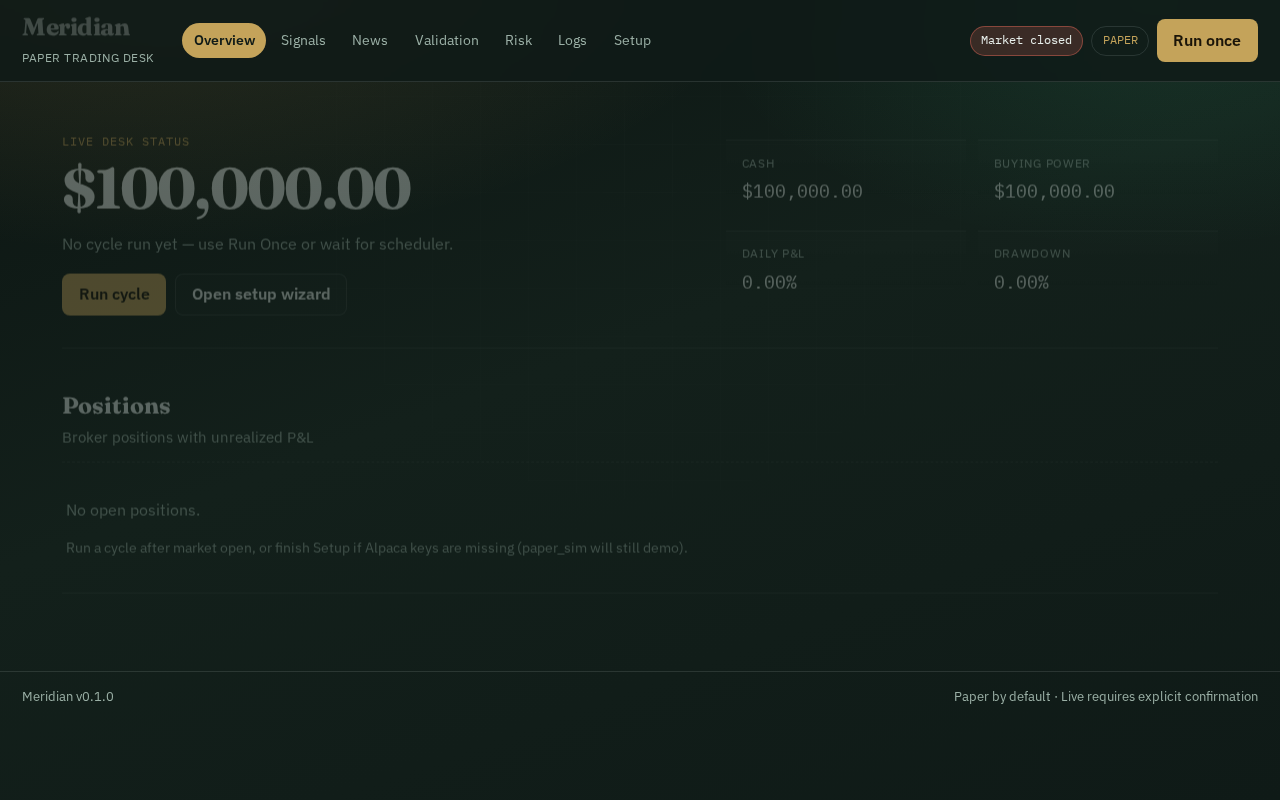
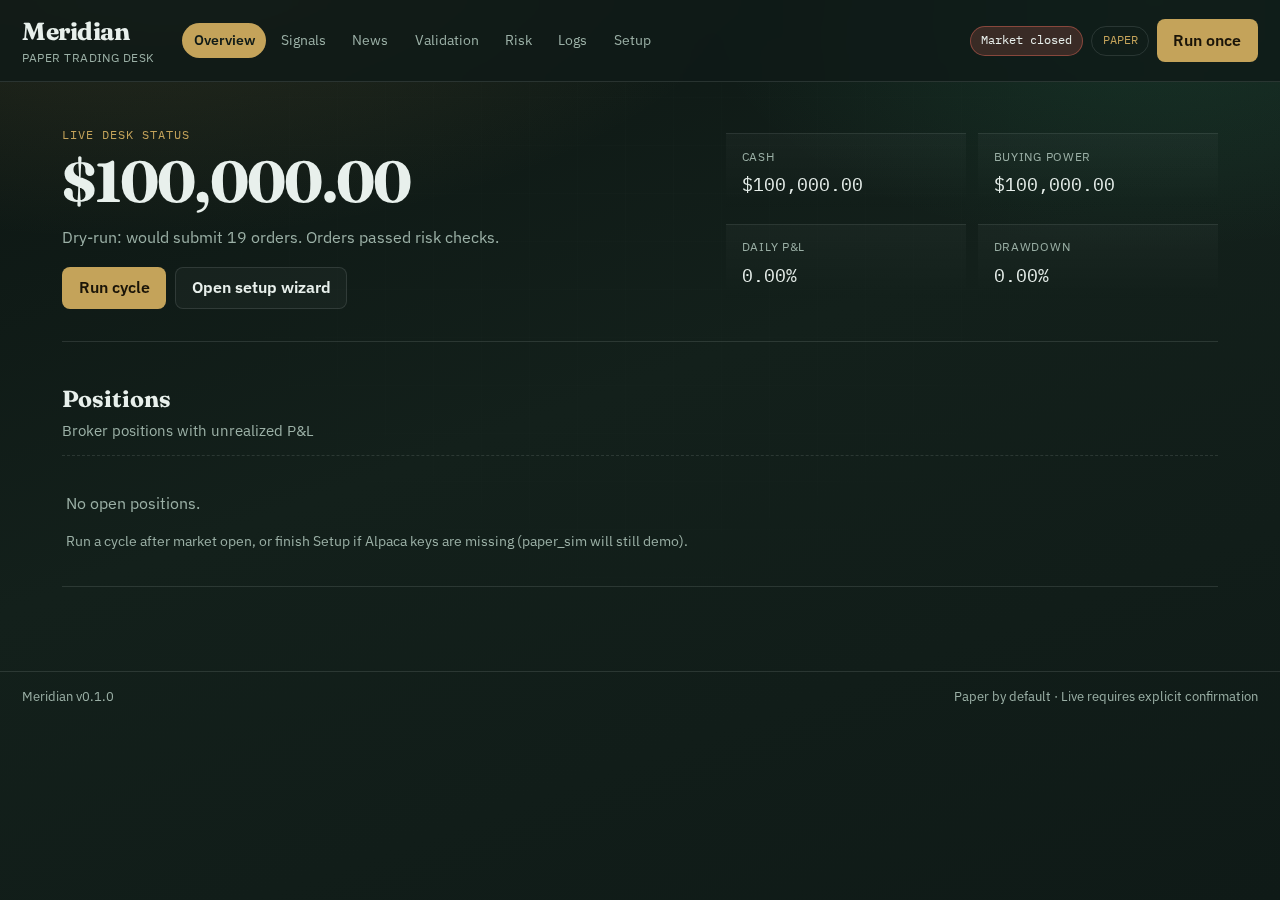
Polish: filled-signals screenshot and changelog after PR #2
Re-capture overview/setup after dry-run cycle; add signals-filled
screenshot index; note honest holdout vs buy&hold in CHANGELOG.

diff --git a/docs/CHANGELOG.md b/docs/CHANGELOG.md
@@ -2,9 +2,10 @@
 
 ## 0.1.0 — 2026-10-18
 
-- Initial Meridian paper-first trading bot scaffold on `main`
+- Initial Meridian paper-first trading bot on `main` (merged via PR #2)
 - Alpaca / paper_sim / IBKR stub brokers; momentum strategy; risk engine
 - News + FinBERT/LLM sentiment; advisory research-only layer
-- Walk-forward validation with DSR / PBO proxy
-- FastAPI Meridian dashboard + setup wizard
+- Walk-forward validation with DSR / PBO proxy (sample: holdout does **not** beat buy&hold)
+- FastAPI Meridian dashboard + setup wizard; Playwright e2e + screenshots
 - Agent-ready docs, Cursor rules/skills/auditors, CI/Docker
+- Optional extras: `ml-nlp` (FinBERT/torch), `vectorbt`

diff --git a/docs/screenshots/README.md b/docs/screenshots/README.md
@@ -1,0 +1,13 @@
+# Dashboard screenshots
+
+Captured via Playwright against the local Meridian desk (`TRADING_MODE=paper`, `paper_sim` when Alpaca keys are absent).
+
+| File | View |
+|------|------|
+| `dashboard-overview.png` | Overview with equity / market status |
+| `setup-wizard.png` | Setup wizard guidance (missing keys) |
+| `validation-panel.png` | Loaded walk-forward validation report |
+| `risk-panel.png` | Risk limits / kill switch panel |
+| `signals-empty.png` | Signals before a cycle |
+| `signals-filled.png` | Signals after a dry-run cycle |
+| `dashboard-mobile.png` | ~390px mobile width |
